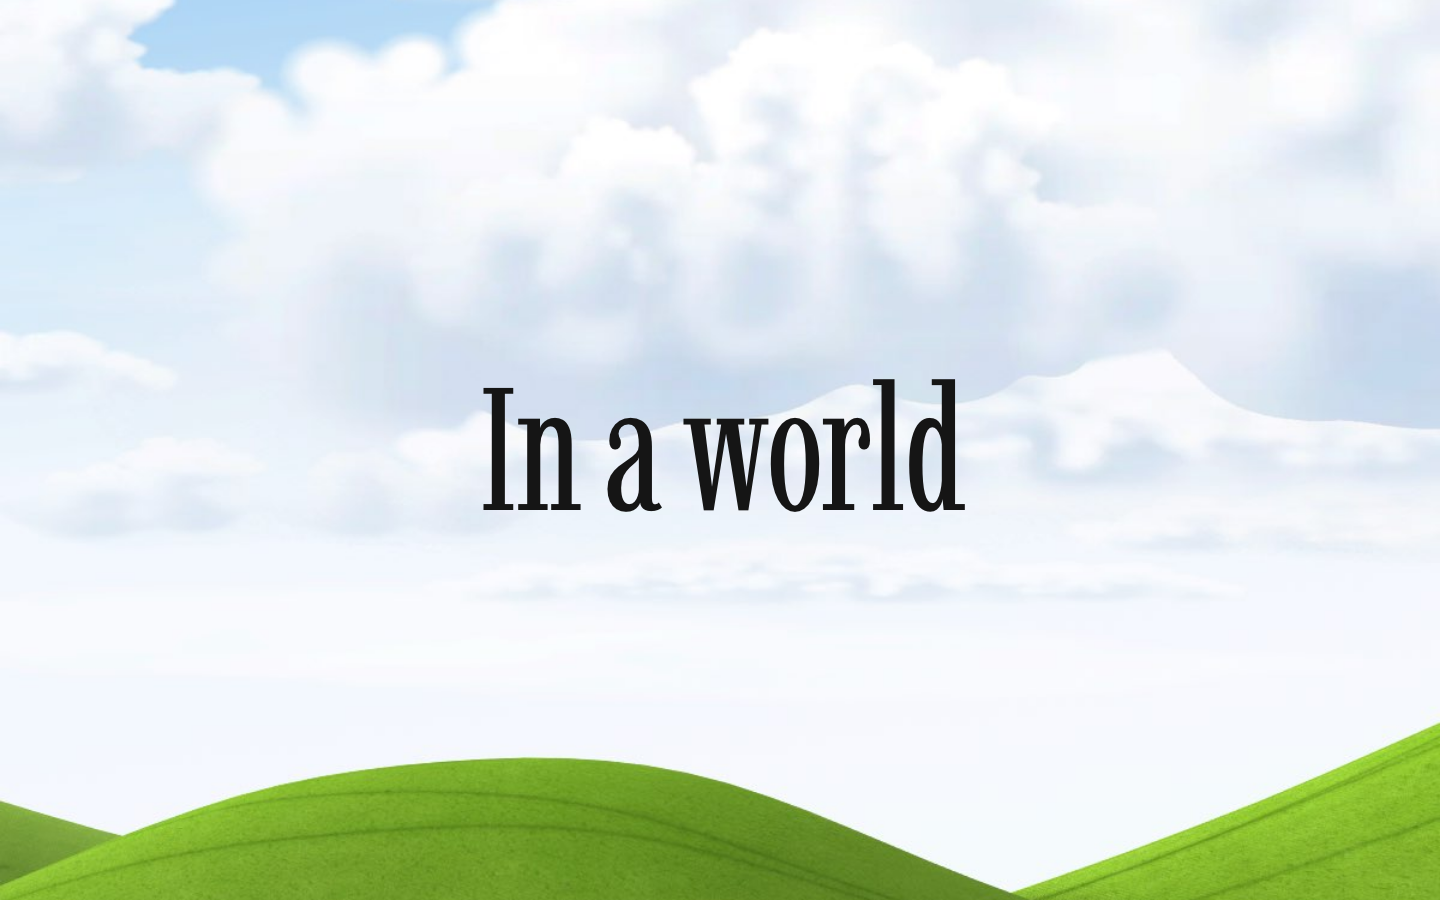
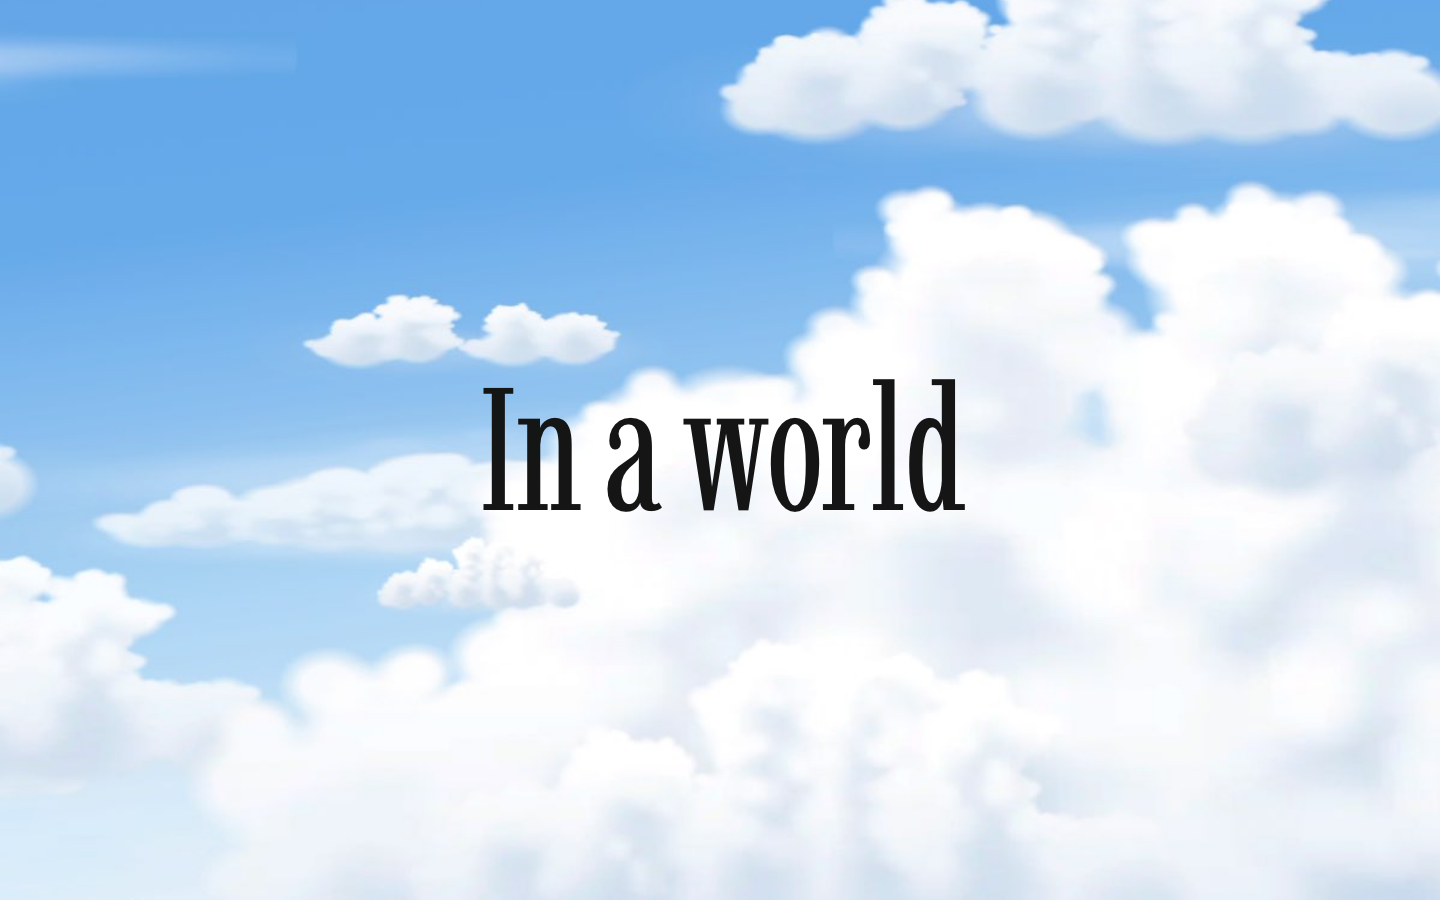
Intro: even-paced camera, capped by the lines, no freeze on the last lines

diff --git a/src/scroll.js b/src/scroll.js
@@ -29,6 +29,26 @@ function swoop(from, to, t) {
 const IN_CLOUDS = { y: -500, z: -600 }; // extra sink and forward drift over the lingering stretch
 const inClouds = (from, t) => ({ rotX: from.rotX, y: from.y + IN_CLOUDS.y * t, z: from.z + IN_CLOUDS.z * t });
 const gate = { value: 0 };
+
+// Even pace through the intro: the camera follows the scroll, but never runs ahead of the
+// lines. Each line owns an equal share of the descent (1/4 each) and the share it has
+// unlocked grows steadily over the time the line is on screen. So:
+// - a slow scroll: the camera simply follows the scroll, no pauses
+// - a fast scroll: the camera moves at a constant pace with the lines instead of jumping
+//   ahead and then freezing while the text catches up
+const lineCap = { value: 0 };
+window.addEventListener('intro:line', (event) => {
+  const { index, count, ms } = event.detail;
+  const goal = clamp01((index + 1) / count);
+  gsap.killTweensOf(lineCap);
+  if (goal <= lineCap.value) {
+    // Going back up: no waiting.
+    gsap.to(lineCap, { value: goal, duration: 0.3, ease: 'power2.out', onUpdate: applyCamera });
+  } else {
+    // Linear on purpose: a constant speed reads as one continuous move across all lines.
+    gsap.to(lineCap, { value: goal, duration: ms / 1000, ease: 'none', onUpdate: applyCamera });
+  }
+});
 window.addEventListener('intro:lines', (event) => {
   const done = event.detail.done;
   gsap.killTweensOf(gate);
@@ -83,12 +103,14 @@ function applyCamera() {
   let index = 0;
   progress.forEach((value, i) => { if (value > 0) index = i; });
   const segment = SEGMENTS[index];
-  const t = clamp01(progress[index] + (index === 0 ? nudge : 0));
+  const introT = Math.min(clamp01(progress[0] + nudge), lineCap.value);
+  const t = index === 0 ? introT : clamp01(progress[index]);
   // Cursor tracking runs through the intro and the hero alike.
   const follow = 1;
   let at = (segment.path || straight)(segment.from, segment.to, t);
   if (index === 1 && gate.value < 1) {
-    const cloud = inClouds(segment.from, t);
+    // Still in the clouds: carry on from wherever the even-paced intro descent has got to.
+    const cloud = inClouds(straight(POSES.introStart, POSES.introEnd, introT), t);
     at = { rotX: mix(cloud.rotX, at.rotX, gate.value), y: mix(cloud.y, at.y, gate.value), z: mix(cloud.z, at.z, gate.value) };
   }
   setCameraPose({
@@ -99,7 +121,7 @@ function applyCamera() {
     rotY: -pointer.x * TRACK.turn * follow,
   });
   // The static image slides the same way, for phones and before the scene has loaded.
-  setFallbackShift(clamp01((progress[0] * 4.4 + progress[1] * gate.value) / 5.4)); // weighted by scroll length; the hills wait for the hero too
+  setFallbackShift(clamp01((introT * 4.4 + progress[1] * gate.value) / 5.4)); // weighted by scroll length; the hills wait for the hero too
 }
 
 // Lets intro.js push the camera a little along its path and back.

diff --git a/src/intro.js b/src/intro.js
@@ -101,6 +101,8 @@ export function initIntro() {
     };
 
     const render = (index) => {
+      // Tell scroll.js which line is up, so the camera keeps an even pace with the lines.
+      window.dispatchEvent(new CustomEvent('intro:line', { detail: { index, count: parts.length, ms: LINE_MS } }));
       parts.forEach((part, i) => {
         part.classList.toggle('is-out', i === shown && i !== index);
         part.classList.toggle('is-in', i === index);

diff --git a/src/scene.js b/src/scene.js
@@ -78,6 +78,7 @@ export async function initScene() {
     }
 
     camera = found[0];
+    if (import.meta.env.DEV) window.__camRef = camera; // test hook, left out of production builds
     cameraHome = { x: camera.position.x, rotY: camera.rotation.y };
     setCameraPose(pose);
 

diff --git a/design/page-spec.md b/design/page-spec.md
@@ -23,7 +23,7 @@ Motion:
 - The intro stays pinned while the reader scrolls through 4.4 screens. Only one part is visible at a time.
 - Each part owns a quarter of the intro. When its quarter reaches the middle of the screen, the part is revealed: it fades in, rises 30px and comes out of an 8px blur over 0.8 s. The part before it fades out in 0.2 s first.
 - Scrolling is never locked: the camera and clouds follow the scroll as before. Only the text is locked into a sequence: lines play strictly in order, one at a time, and each stays for its full reveal plus a short rest (about 1.2 s) before the next may replace it. The lines share the first 75% of the pinned scroll; the last 25% is runway so the final line finishes before the intro ends. If the reader scrolls past the intro before the last line has played, the scroll and the camera carry on while the text stays on screen, but the camera stays in the clouds (sinking and drifting forward). The hills belong to the hero only: once the last line has had its time, the clouds part and the hills rise in over 1.2 s, and the hero headline fades in. The page only holds if the reader reaches the hero before that. Scrolling back up is free. Skip intro bypasses everything.
-- The camera descends through the clouds with scroll progress. Scrolling up reverses it.
+- The camera descends through the clouds at an even pace: it follows the scroll, but never runs ahead of the lines. Each line unlocks an equal quarter of the descent, spread over the time the line is on screen, so a fast scroll gives a steady glide instead of a jump and a freeze. Scrolling up reverses it.
 - After 6 s idle: the camera dips so the hero headline peeks above the bottom edge, then settles back.
 - Clicking the label (or Enter on it) scrolls a little, which starts part 1.
 - Return visits skip the intro. Reduced motion: all four parts shown together as static text, the label at the bottom, no pinning.

diff --git a/design/decisions.md b/design/decisions.md
@@ -85,3 +85,4 @@
 - Label copy: "Scroll" became "Scroll down", with a straight down arrow (shaft and head, not a chevron) after the text. Token --size-hint-icon is back.
 - Fix: on a normal scroll the lines ran behind and the page waited at the end of the intro, so the background stopped during the last two lines. Now the scroll and camera carry on into the move to the hero while the text lingers on screen; the hero headline fades in once the last line is done. The hold remains only at the hero itself.
 - Fix: the hills showed while intro lines were still playing. The camera now stays in the clouds (extra sink of 500 and forward drift of 600 over the lingering stretch) until the last line is done, then blends into the swoop to the hero over 1.2 s. Scrolling back into the intro closes it again in 0.3 s. The phone fallback image follows the same rule.
+- Fix: the background still froze on the last lines, because the camera followed the scroll and the scroll got ahead of the text. The intro descent is now capped by the lines: each line unlocks a quarter of it, linearly over its 1.2 s. Slow scroll follows the scroll; fast scroll glides at a constant pace with the lines.
